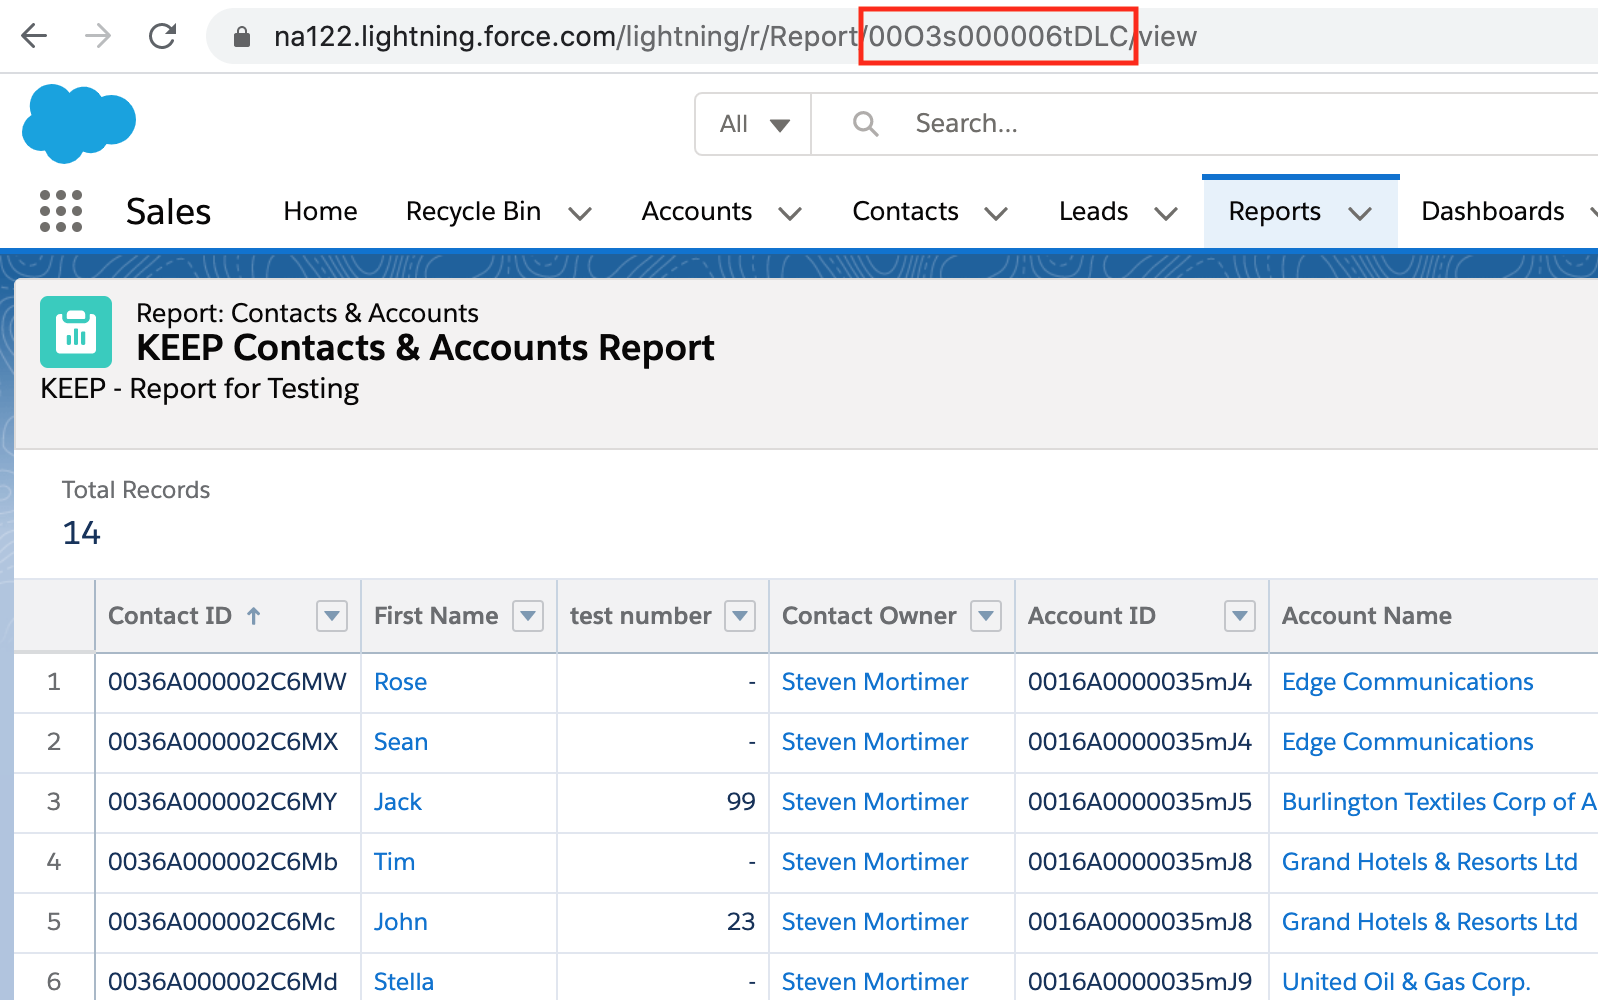
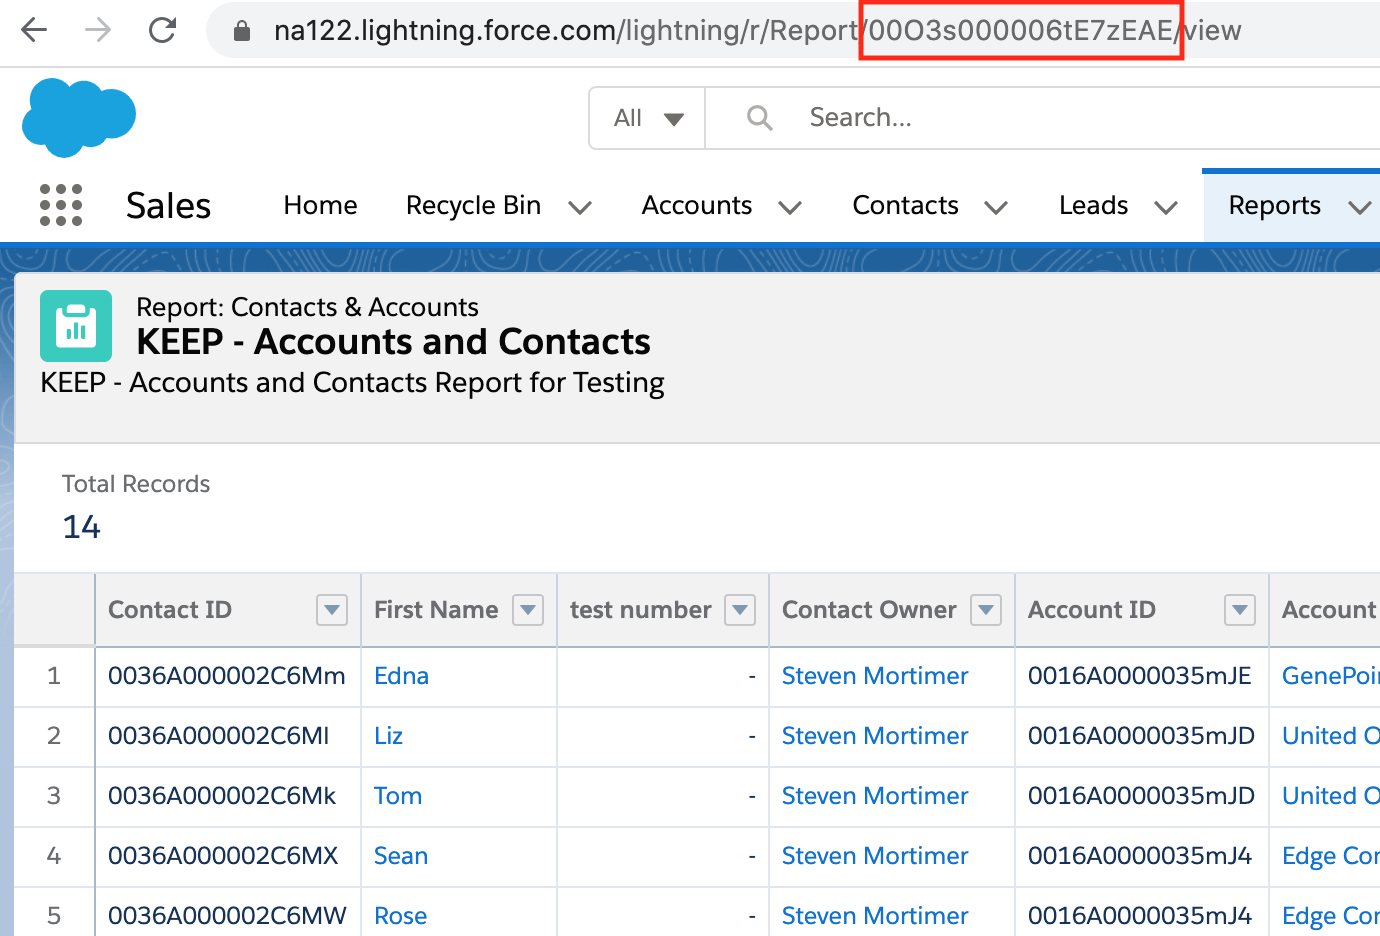
Fix bug in vignette that was deleting reports

Changed region(s): [[0.0, 0.4647, 1.0, 1.0], [0.0, 0.0, 1.0, 0.4338]]

diff --git a/docs/articles/working-with-reports.html b/docs/articles/working-with-reports.html
@@ -170,8 +170,8 @@
 <a href="#running-a-report-in-your-org" class="anchor"></a>Running a Report in your Org</h2>
 <p>In Salesforce there is a dedicated page to displaying the list of reports in your Org. It typically follows the pattern: <code>https://na1.salesforce.com/00O/o</code> (replace <code>na1</code> with your server instance). When you click on a report in the GUI you should see the results. Below is a screenshot of how a report may look in your Org. Note the report Id in the URL bar.</p>
 <p><img src="working-with-reports/report-screenshot.png"></p>
-<p>The report Id above (<code>"00O3s000006tDLC"</code>) is the only information needed to pull those same results from an R session, like so:</p>
-<div class="sourceCode" id="cb2"><html><body><pre class="r"><span class="no">my_report_id</span> <span class="kw">&lt;-</span> <span class="st">"00O3s000006tDLC"</span>
+<p>The report Id above (<code>"00O3s000006tE7zEAE"</code>) is the only information needed to pull those same results from an R session, like so:</p>
+<div class="sourceCode" id="cb2"><html><body><pre class="r"><span class="no">my_report_id</span> <span class="kw">&lt;-</span> <span class="st">"00O3s000006tE7zEAE"</span>
 <span class="no">results</span> <span class="kw">&lt;-</span> <span class="fu"><a href="../reference/sf_run_report.html">sf_run_report</a></span>(<span class="no">my_report_id</span>)
 <span class="no">results</span>
 <span class="co">#&gt; # A tibble: 14 x 8</span>
